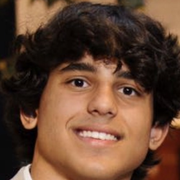
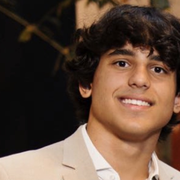
Portfólio: foto do João com recorte mais aberto
Claude-Session: https://claude.ai/code/session_019DD4Fyus8cYbBLTfuo8jed

diff --git a/portfolio/index.html b/portfolio/index.html
@@ -10,7 +10,7 @@
 <meta property="og:description" content="Sites de apresentação com galeria, planta 3D e caminho curto até a reserva.">
 <meta property="og:type" content="website">
 <meta property="og:url" content="https://jgg190310-ops.github.io/Imoveis/portfolio/">
-<meta property="og:image" content="https://jgg190310-ops.github.io/Imoveis/portfolio/img/capa-link.jpg?v=2">
+<meta property="og:image" content="https://jgg190310-ops.github.io/Imoveis/portfolio/img/capa-link.jpg?v=3">
 <meta property="og:image:type" content="image/jpeg">
 <meta property="og:image:width" content="1200">
 <meta property="og:image:height" content="630">
